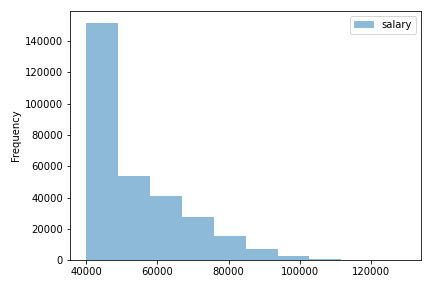
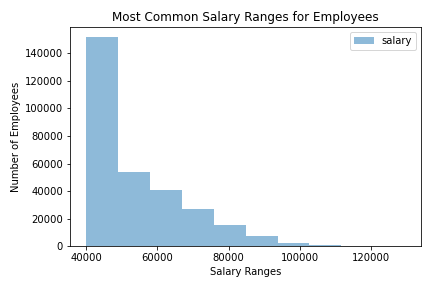
updates

diff --git a/README.md b/README.md
@@ -20,14 +20,48 @@ I decided to break the task down in four sections.
 
 ### ERD, CSVs and Keys.
 ![ERD_Quick_Database_Diagrams](https://github.com/llhabers/sql-challenge/blob/main/EmployeeSQL/ERD.png)
+As a starting place, I decided to open the CSVs on my excel workbook to view all column names. Reviewing the column names would help me create the correct database with the appropriate primary and foriegn keys. It is important to know which columns to make primary and foreign keys so that you can pull accurate date to help explain your analysis.
 
 ### Coding Time: Analysis
-Test
+After setting up the appropraite database, CSVs and Keys, I was able to successful answer the following questions.
+<br>
+1. List the following details of each employee: employee number, last name, first name, sex, and salary.
+<br>
+2. List first name, last name, and hire date for employees who were hired in 1986.
+<br>
+3. List the manager of each department with the following information: department number, department name, the manager's employee number, last name, first name.
+<br>
+4. List the department of each employee with the following information: employee number, last name, first name, and department name.
+<br>
+5. List first name, last name, and sex for employees whose first name is "Hercules" and last names begin with "B."
+<br>
+6. List all employees in the Sales department, including their employee number, last name, first name, and department name.
+<br>
+7. List all employees in the Sales and Development departments, including their employee number, last name, first name, and department name.
+<br>
+8. In descending order, list the frequency count of employee last names, i.e., how many employees share each last name.
+<br>
+
+I was able to answer the questions usign the join, groupby and orderby functions. It was interesting to see the salaries during the 80's. 
 
 ### Epilouge
+Epilogue
+The Epilouge asked me to "Search your ID number." I was told my ID number was 499942. I was able to use the following code to get the results. I was impressed with what came back. (Please review the following photo.)
 
+SELECT *
+FROM employees
+JOIN salaries ON (salaries.emp_no) = (employees.emp_no)
+WHERE (employees.emp_no) = '499942';
+
+![Epilouge](https://github.com/llhabers/sql-challenge/blob/main/EmployeeSQL/most_common_salary_ranges_for_employees.png)
 ### Bonus Time
-
+I decided to take on the challenge to get a deeper dive of the dataset. From looking at the graph, I notice a few observations;
+<br>
+1. Senior Staff 
+<br>
+2.
+<br>
+3.
 ## Results
 
 ![Average_Employee_Salaries](https://github.com/llhabers/sql-challenge/blob/main/EmployeeSQL/average_salary_by_titles.png)
